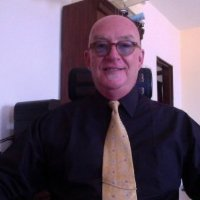
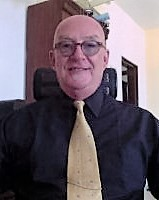
Updated personnel

diff --git a/personnel.html b/personnel.html
@@ -14,7 +14,7 @@ permalink: /personnel/
         <li class="media col-lg-5 col-md-6">
             <div class="media-left media-middle">
                 {% if member.link %}<a href="{{ member.link }}" target="_blank">{% endif %}
-                    <img class="media-object personnel" src="{% if member.image %}{{ site.baseurl }}/img/members/{{ member.image }}{% else %}http://placehold.it/150x150{% endif %}" alt="{{ member.name }}">
+                    <img style="max-width: none;" class="media-object img-responsive img-thumbnail" src="{% if member.image %}{{ site.baseurl }}/img/members/{{ member.image }}{% else %}http://placehold.it/150x150{% endif %}" alt="{{ member.name }}">
                 {% if member.link %}</a>{% endif %}
             </div>
             <div class="media-body">

diff --git a/css/main.css b/css/main.css
@@ -14,8 +14,3 @@ body {
 footer {
     margin: 50px 0;
 }
-
-.personnel {
-    width: 150px;
-    height: 150px;
-}
